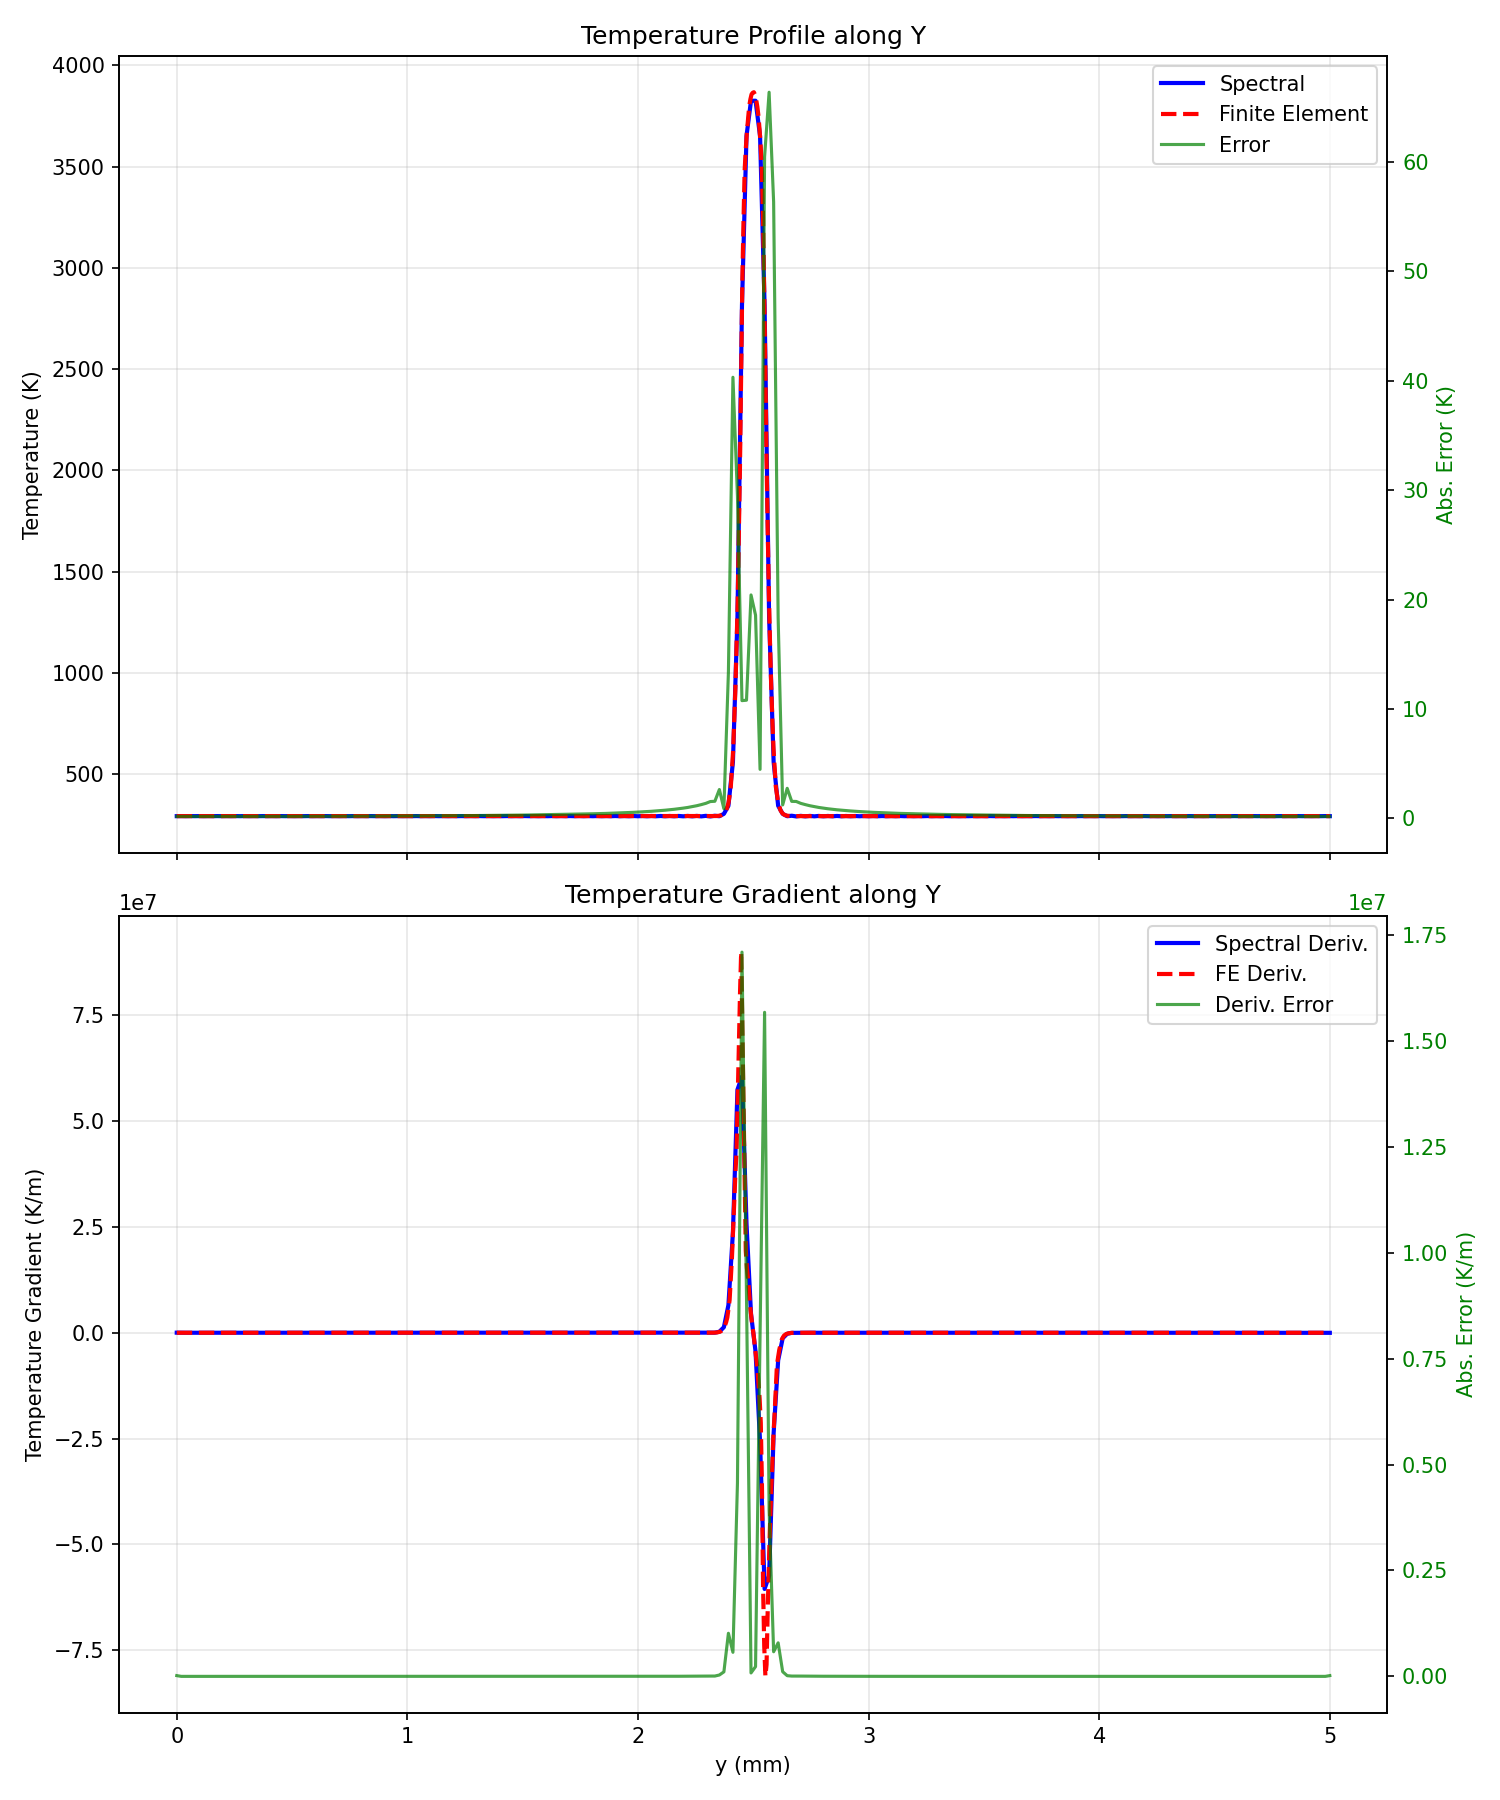
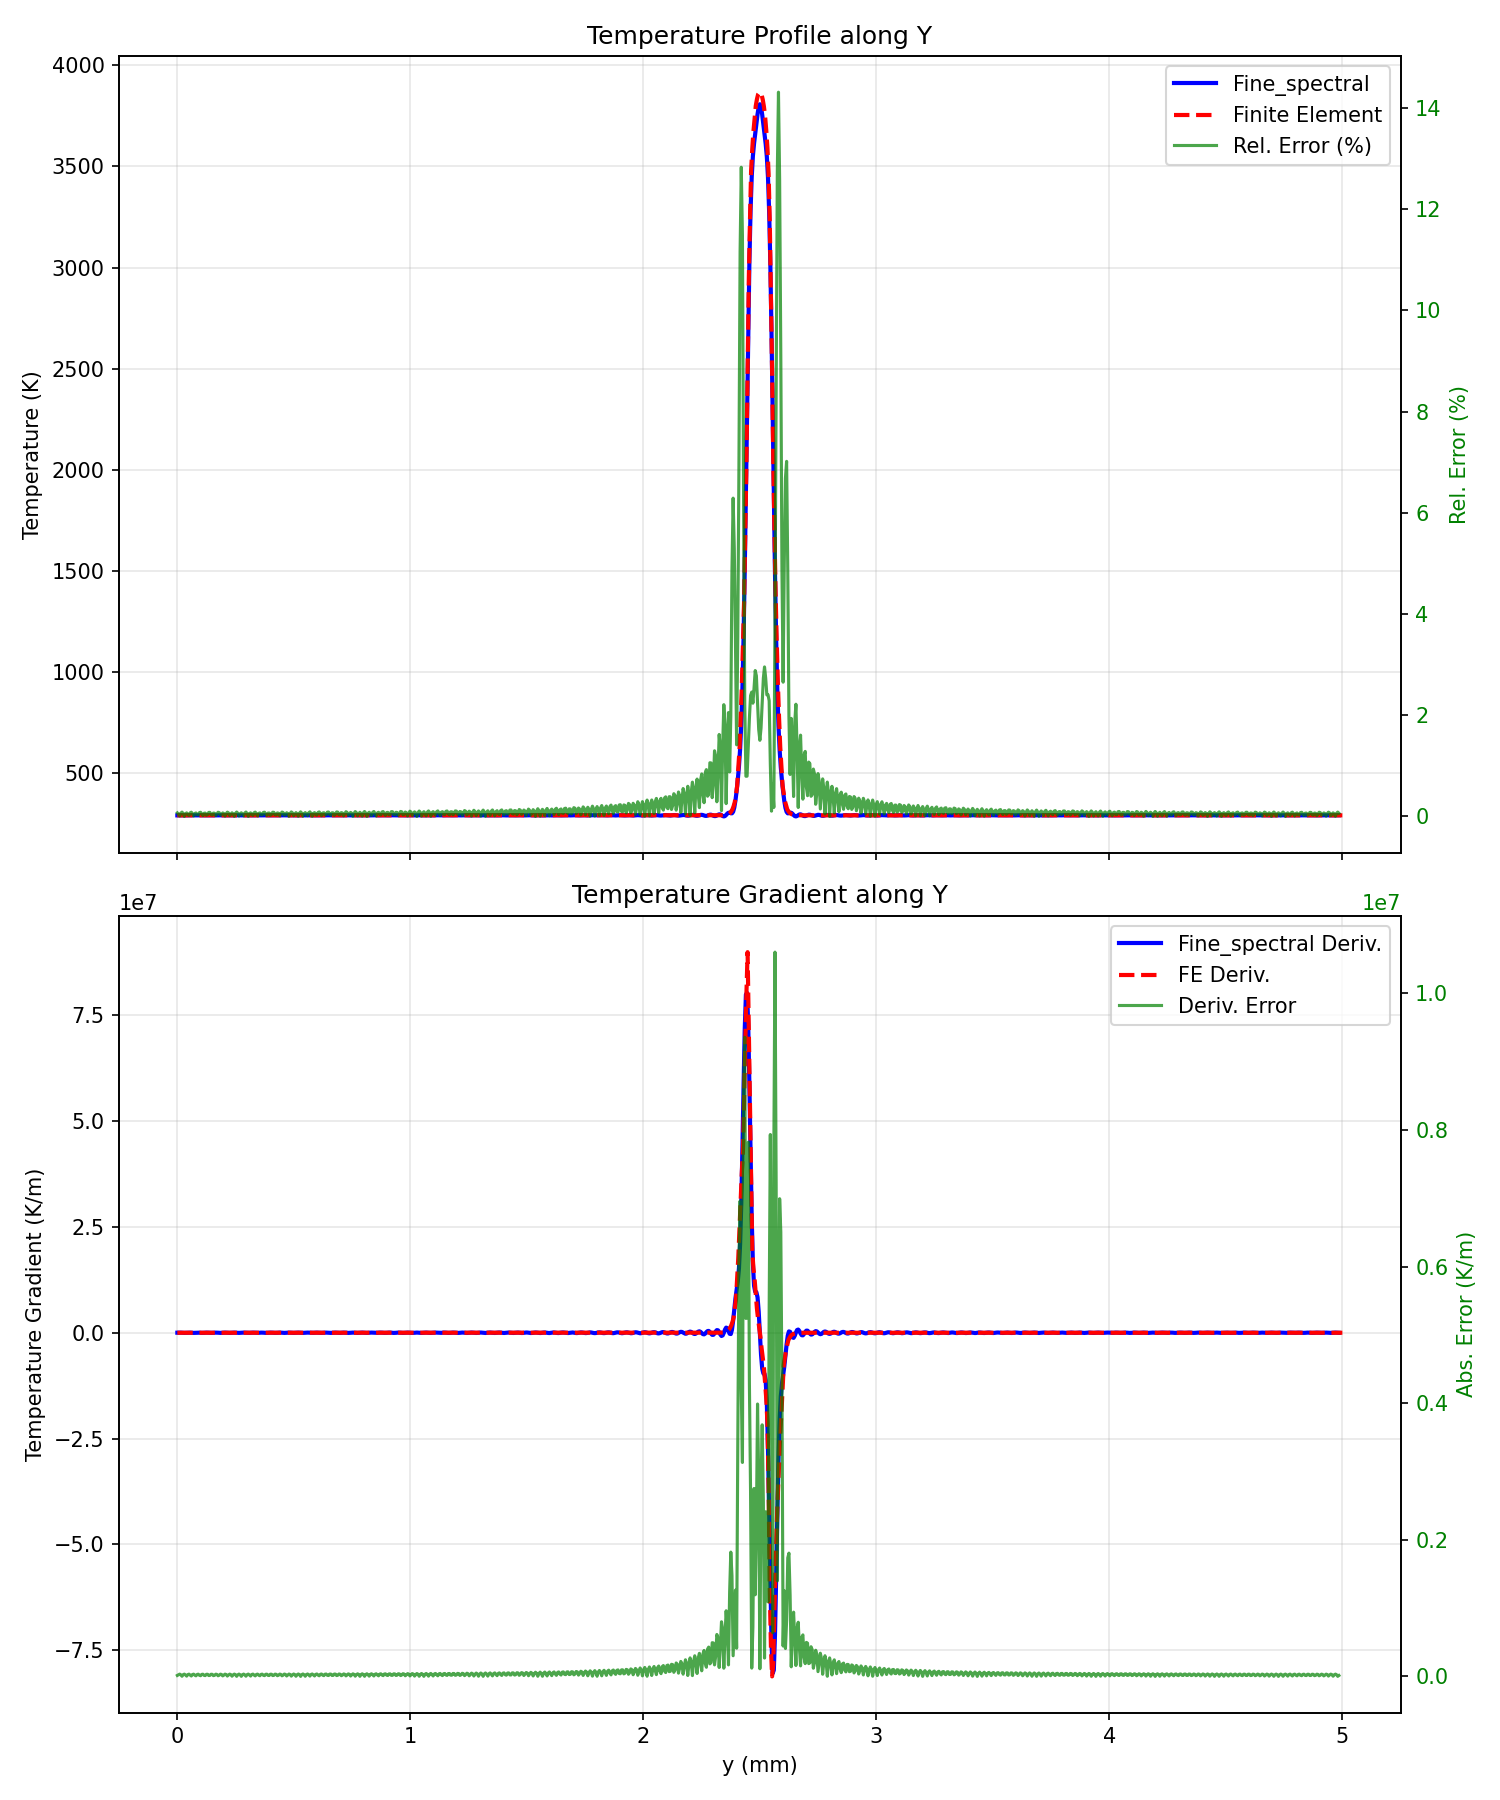
caped latent heat

diff --git a/helpers.py b/helpers.py
@@ -1,5 +1,6 @@
 import h5py
 import os
+import time
 import numpy as np
 from scipy.ndimage import shift as scipy_shift
 from scipy.interpolate import RegularGridInterpolator
@@ -131,7 +132,7 @@ def DCT_II(q):
 
 
 @njit(parallel=True, fastmath=True)
-def _compute_latent_heat_gradient(Q_box, T_box, dx, rho, L, v, T_S, T_L):
+def _compute_latent_heat_gradient(Q_box, T_box, dx, dy, dz, rho, L, v, T_S, T_L, dt):
     """
     Compute latent heat source from temperature gradient.
     Q = rho * L * v * d(f_solid)/dT * dT/dx
@@ -146,49 +147,62 @@ def _compute_latent_heat_gradient(Q_box, T_box, dx, rho, L, v, T_S, T_L):
     # Total factor
     factor = rho * L * v * dfs_dT / (2.0 * dx)
     
+    # Physical limit (Maximum tolerated power corresponding to full phase change)
+    Q_max = rho *  L / dt
+
     for z in prange(nz):
+        Q_box[z, :, :] = 0.0
         for y in range(ny):
-            # Boundaries X: set to 0
-            if nx > 0:
-                Q_box[z, y, 0] = 0.0
-                Q_box[z, y, nx-1] = 0.0
-            
             # Interior X
-            for x in range(1, nx-1):
+            # Fix: range must prevent out-of-bounds access at T_box[..., x+1]. 
+            # Max valid index is nx-1, so max x is nx-2.
+            for x in range(nx - 2, 0, -1):
                 T = T_box[z, y, x]
                 if T >= T_S and T <= T_L:
                     dTdx = T_box[z, y, x+1] - T_box[z, y, x-1]
-                    Q_box[z, y, x] = factor * dTdx
-                else:
-                    Q_box[z, y, x] = 0.0
+                    val = -factor * dTdx
+                    # Clamp to physical limit
+                    if abs(val) + abs(sum(Q_box[z, y, x:x+10])) > Q_max:
+                        if val > 0:
+                            #print("Latent heat limit reached (+):", val, ">", Q_max)
+                            val = Q_max - abs(sum(Q_box[z, y, x:x+10]))
+                        if val < 0:
+                            #print("Latent heat limit reached (-):", val, "<", -Q_max)
+                            val = -Q_max + abs(sum(Q_box[z, y, x:x+10]))
+                    Q_box[z, y, x] = val
 
-def compute_latent_heat_source(Q_buffer, box_coords, phys, laser, geom, num):
+def compute_latent_heat_source(Q_buffer, box_coords, phys, laser, geom, num, timers=None):
     """
     Compute volumetric latent heat source Q (W/m^3) based on the temperature gradient.
     Formula: Q = rho * L * v * d(f_solid)/dT * dT/dx
     """
     # 1. Reconstruct Temperature on Fine Mesh
     # T_box should be returned in (nz, ny, nx) layout to match Q_buffer
-    T_box, _ = reconstruct_temperature_box(num.a_temp, num, geom)
+    T_box, _ = reconstruct_temperature_box(num.a_temp, num, geom, timers=timers)
     
     # 2. Physics Parameters
     v = np.linalg.norm(laser.v)
     dx = geom.dx_fine
+    dy = geom.dy_fine
+    dz = geom.dz_fine
     
     # 3. Compute Gradient and Source
     # Q_buffer is (nz, ny, nx)
+    t0 = time.perf_counter()
     _compute_latent_heat_gradient(
         Q_buffer, T_box, 
-        dx, phys.rho, phys.L_f, v, 
-        phys.T_solidus, phys.T_liquidus
+        dx, dy, dz, phys.rho, phys.L_f, v, 
+        phys.T_solidus, phys.T_liquidus,
+        num.dt
     )
+    if timers is not None: timers['lh_gradient'] += time.perf_counter() - t0
 
 
 # ============================================================
 #   RECONSTRUCT TEMPERATURE FIELDS HELPER FUNCTIONS
 # ============================================================
 
-def reconstruct_temperature_box(a, num, geom, symmetrize=False):
+def reconstruct_temperature_box(a, num, geom, symmetrize=False, timers=None):
     """
     Reconstructs temperature in a small ROI around the laser using 
     precomputed fine mesh cosine bases from geom.
@@ -200,13 +214,19 @@ def reconstruct_temperature_box(a, num, geom, symmetrize=False):
     # T(x,y,z) = sum_p sum_n sum_m  a[p,n,m] * Bz[p,z] * By[n,y] * Bx[m,x]
     
     # 1. Contract Z: (nz, ny, nx) . (nz, nz_box) -> (ny, nx, nz_box)
+    t0 = time.perf_counter()
     T_step1 = np.tensordot(a, geom.Bz_fine, axes=(0, 0))
+    if timers is not None: timers['lh_recon_step1'] += time.perf_counter() - t0
     
     # 2. Contract Y: (ny, nx, nz_box) . (ny, ny_box) -> (nx, nz_box, ny_box)
+    t0 = time.perf_counter()
     T_step2 = np.tensordot(T_step1, geom.By_fine, axes=(0, 0))
+    if timers is not None: timers['lh_recon_step2'] += time.perf_counter() - t0
     
     # 3. Contract X: (nx, nz_box, ny_box) . (nx, nx_box) -> (nz_box, ny_box, nx_box)
+    t0 = time.perf_counter()
     T_box = np.tensordot(T_step2, geom.Bx_fine, axes=(0, 0))
+    if timers is not None: timers['lh_recon_step3'] += time.perf_counter() - t0
     
     return T_box.astype(np.float32), (geom.box_x, geom.box_y, geom.box_z)
 
@@ -493,7 +513,7 @@ def save_temp_profiles_fine(
         np.savetxt(fname, np.vstack([coords, profile]).T, header=f'{direction}(m) T(K)', fmt='% .6e')
         print(f"Saved fine profile: {fname}")
 
-def box_field_to_modes(field_box, geom):
+def box_field_to_modes(field_box, geom, timers=None):
     """
     Convert a field defined in the fine box (e.g. Q_latent) to global spectral modes.
     Input field_box is (nz_box, ny_box, nx_box) [ZYX layout].
@@ -505,13 +525,19 @@ def box_field_to_modes(field_box, geom):
     # Direct tensor contraction avoiding intermediate reshapes/transposes
     
     # 1. Contract Z_box: (nz_box, ny_box, nx_box) . (nz, nz_box) -> (ny_box, nx_box, nz)
+    t0 = time.perf_counter()
     temp1 = np.tensordot(field_box, geom.Bz_fine, axes=(0, 1))
+    if timers is not None: timers['lh_modes_step1'] += time.perf_counter() - t0
     
-    # 2. Contract Y_box: (ny_box, nx_box, nz) . (ny, ny_box) -> (nx_box, nz, ny)
+    # 2. Contract Y_box: (ny_box, nx_box, nz) . (ny, ny_box) -> (nx, nz_box, ny_box)
+    t0 = time.perf_counter()
     temp2 = np.tensordot(temp1, geom.By_fine, axes=(0, 1))
+    if timers is not None: timers['lh_modes_step2'] += time.perf_counter() - t0
     
     # 3. Contract X_box: (nx_box, nz, ny) . (nx, nx_box) -> (nz, ny, nx)
+    t0 = time.perf_counter()
     modes = np.tensordot(temp2, geom.Bx_fine, axes=(0, 1))
+    if timers is not None: timers['lh_modes_step3'] += time.perf_counter() - t0
     
     # Multiply by dV for the numerical integration
     modes *= geom.dV_fine

diff --git a/test_speed_spectral.py b/test_speed_spectral.py
@@ -95,7 +95,7 @@ class GeomParams:
         
         # Fine mesh setup for latent heat correction
         self.refinement = 4
-        self.Lx_box, self.Ly_box, self.Lz_box = 0.5e-3, 0.4e-3, 0.1e-3
+        self.Lx_box, self.Ly_box, self.Lz_box = 0.7e-3, 0.2e-3, 0.04e-3
         # To be implemented later, some time ni the future, check that melpool fits in box
         self.dx_fine, self.dy_fine, self.dz_fine = self.dx/self.refinement, self.dy/self.refinement, self.dz/self.refinement
         
@@ -201,6 +201,10 @@ class NumericalParams:
         self.KK_by_Cp = (self.KK * geom.Cp[:, None, None]).astype(np.float32) # Projected on x,y plane
         self.KK_vol = self.KK.astype(np.float32)
         
+        # Precompute C_factor for surface reconstruction optimization
+        # C_factor = sum_p (KK_pnm * Cp_p) -> This factor multiplies B_nm to get contributions to A_nm
+        self.C_factor = (self.KK_by_Cp * geom.Cp32[:, None, None]).sum(axis=0).astype(np.float32)
+        
         # Allocate working arrays
         self.q_diff = np.empty((self.ny, self.nx), dtype=np.float32)
         self.B_buffer = np.empty((self.ny, self.nx), dtype=np.float32)
@@ -255,7 +259,7 @@ def time_step(a, phys, num, geom, laser, timers=None, epsilon=2e+1, iter_step=0)
         np.multiply(a, num.K, out=num.aK, casting='same_kind')
         S_n = geom.dct_scale * q_dct
         np.multiply(geom.dct_scale, q_dct, out=num.B_buffer, casting='same_kind') 
-        compute_a_temp_numba(num.aK, num.KK_by_Cp, num.B_buffer, num.a_temp)
+        compute_a_temp_numba(num.aK, num.KK_by_Cp, num.B_buffer, num.a_temp) # Updated coefficient, temporary
         S_current = S_n.copy()
         if timers is not None: timers['linear'] += time.perf_counter() - t0
 
@@ -269,12 +273,12 @@ def time_step(a, phys, num, geom, laser, timers=None, epsilon=2e+1, iter_step=0)
         # Compute volumetric source
         t_src = time.perf_counter()
         num.Q_latent_buffer.fill(0.0)
-        hp.compute_latent_heat_source(num.Q_latent_buffer, (geom.box_x, geom.box_y, geom.box_z), phys, laser, geom, num)
+        hp.compute_latent_heat_source(num.Q_latent_buffer, (geom.box_x, geom.box_y, geom.box_z), phys, laser, geom, num, timers=timers)
         if timers is not None: timers['lh_compute_correction'] += time.perf_counter() - t_src
 
         # Convert to modes
         t_modes = time.perf_counter()
-        Q_modes = hp.box_field_to_modes(num.Q_latent_buffer, geom)
+        Q_modes = hp.box_field_to_modes(num.Q_latent_buffer, geom, timers=timers)
         if timers is not None: timers['lh_modes_conversion'] += time.perf_counter() - t_modes
 
         # Add to temperature modes
@@ -308,17 +312,18 @@ def time_step(a, phys, num, geom, laser, timers=None, epsilon=2e+1, iter_step=0)
         # Debug output
         t0 = time.perf_counter()
         if iter_step % 200 == 0:
+            T_box, box_coords = hp.reconstruct_temperature_box(num.a_temp, num, geom)
             hp.save_field_to_hdf5(
                 f"{OUT_DIR}/T_box_step_{laser.t:.5f}",
-                T_box_target, # Already (nz, ny, nx)
-                (geom.box_x, geom.box_y, geom.box_z),
+                T_box, # Already (nz, ny, nx)
+                box_coords,
                 value_name="Temperature",
                 geom=geom,
             )
             hp.save_field_to_hdf5(
                 f"{OUT_DIR}/Q_latent_step_{laser.t:.5f}",
                 num.Q_latent_buffer, # Already (nz, ny, nx)
-                (geom.box_x, geom.box_y, geom.box_z),
+                box_coords,
                 value_name="LatentHeat",
                 geom=geom,
             )
@@ -342,12 +347,15 @@ def run_simulation(phys, num, geom, laser):
         'source': 0.0, 'linear': 0.0, 'nonlinear': 0.0, 'latent_heat': 0.0, 'io': 0.0,
         'lh_reconstruct_box': 0.0, 'lh_find_isotherms': 0.0, 'lh_compute_correction': 0.0, 'lh_modes_conversion': 0.0,
         'lh_update_mesh': 0.0, 'lh_add_delta': 0.0,
+        'lh_recon_step1': 0.0, 'lh_recon_step2': 0.0, 'lh_recon_step3': 0.0,
+        'lh_modes_step1': 0.0, 'lh_modes_step2': 0.0, 'lh_modes_step3': 0.0,
+        'lh_gradient': 0.0,
         'total': 0.0
     }
     
     start = time.perf_counter()
     
-    for step in range(nsteps):
+    for step in range(nsteps + 1):
         t_step_start = time.perf_counter()
         a, T_top, P_laser, n_evap, n_LH_pts = time_step(a, phys, num, geom, laser, timers=timers, iter_step=step)
         laser.update(num.dt)
@@ -373,7 +381,7 @@ def run_simulation(phys, num, geom, laser):
 if __name__ == "__main__":
     # Simulation parameters
     Lx, Ly, Lz = 0.01, 0.005, 0.0025
-    nx, ny, nz = 512, 256, 1000
+    nx, ny, nz = 512, 256, 1800
     dt = 6.0e-6
     t_final = 1.2e-2
     # Material properties

diff --git a/comparison.py b/comparison.py
@@ -101,11 +101,18 @@ def plot_comparison(profiles, output_file="temperature_comparison.png", label_si
             T_FE_sorted = T_FE[sort_idx]
             
             T_FE_interp = np.interp(coords_spec, coords_FE_sorted, T_FE_sorted, left=np.nan, right=np.nan)
-            error_T = np.abs(T_spec - T_FE_interp)
             
+            # Compute Relative Error (%)
+            # Add small epsilon to avoid division by zero if T approaches 0 (unlikely for K, but safe)
+            denom = np.abs(T_FE_interp)
+            safe_mask = denom > 1e-6
+            error_T = np.zeros_like(T_FE_interp)
+            error_T[safe_mask] = np.abs(T_spec[safe_mask] - T_FE_interp[safe_mask]) / denom[safe_mask] * 100.0
+            error_T[~safe_mask] = np.nan # Or 0, but NaN is safer for plotting
+
             ax1_err = ax1.twinx()
-            ax1_err.plot(coords_spec * 1e3, error_T, 'g-', label='Error', linewidth=1.5, alpha=0.7)
-            ax1_err.set_ylabel('Abs. Error (K)', color='g')
+            ax1_err.plot(coords_spec * 1e3, error_T, 'g-', label='Rel. Error (%)', linewidth=1.5, alpha=0.7)
+            ax1_err.set_ylabel('Rel. Error (%)', color='g')
             ax1_err.tick_params(axis='y', labelcolor='g')
             
             # Combine legends
@@ -195,16 +202,32 @@ def compute_metrics(profiles):
         # Compute metrics
         max_T_spec = np.max(T_spec_valid)
         max_T_FE = np.max(T_FE_valid)
-        mae = np.mean(np.abs(T_spec_valid - T_FE_valid))
-        rmse = np.sqrt(np.mean((T_spec_valid - T_FE_valid)**2))
-        max_diff = np.max(np.abs(T_spec_valid - T_FE_valid))
         
+        abs_diff = np.abs(T_spec_valid - T_FE_valid)
+        mae = np.mean(abs_diff)
+        rmse = np.sqrt(np.mean((T_spec_valid - T_FE_valid)**2))
+        max_diff = np.max(abs_diff)
+        
+        # relative errors (%)
+        denom = np.abs(T_FE_valid)
+        # avoid division by zero
+        safe_mask = denom > 1e-6
+        if np.any(safe_mask):
+            rel_diff = abs_diff[safe_mask] / denom[safe_mask] * 100.0
+            mean_rel_err = np.mean(rel_diff)
+            max_rel_err = np.max(rel_diff)
+        else:
+            mean_rel_err = np.nan
+            max_rel_err = np.nan
+
         metrics[direction] = {
             'max_T_spectral': max_T_spec,
             'max_T_FE': max_T_FE,
             'mae': mae,
             'rmse': rmse,
             'max_diff': max_diff,
+            'mean_rel_err': mean_rel_err,
+            'max_rel_err': max_rel_err,
             'n_points': len(T_spec_valid)
         }
         
@@ -214,6 +237,8 @@ def compute_metrics(profiles):
         print(f"  MAE:              {mae:.2f} K")
         print(f"  RMSE:             {rmse:.2f} K")
         print(f"  Max difference:   {max_diff:.2f} K")
+        print(f"  Mean Rel. Error:  {mean_rel_err:.2f} %")
+        print(f"  Max Rel. Error:   {max_rel_err:.2f} %")
         print(f"  Comparison points: {len(T_spec_valid)}")
     
     return metrics
